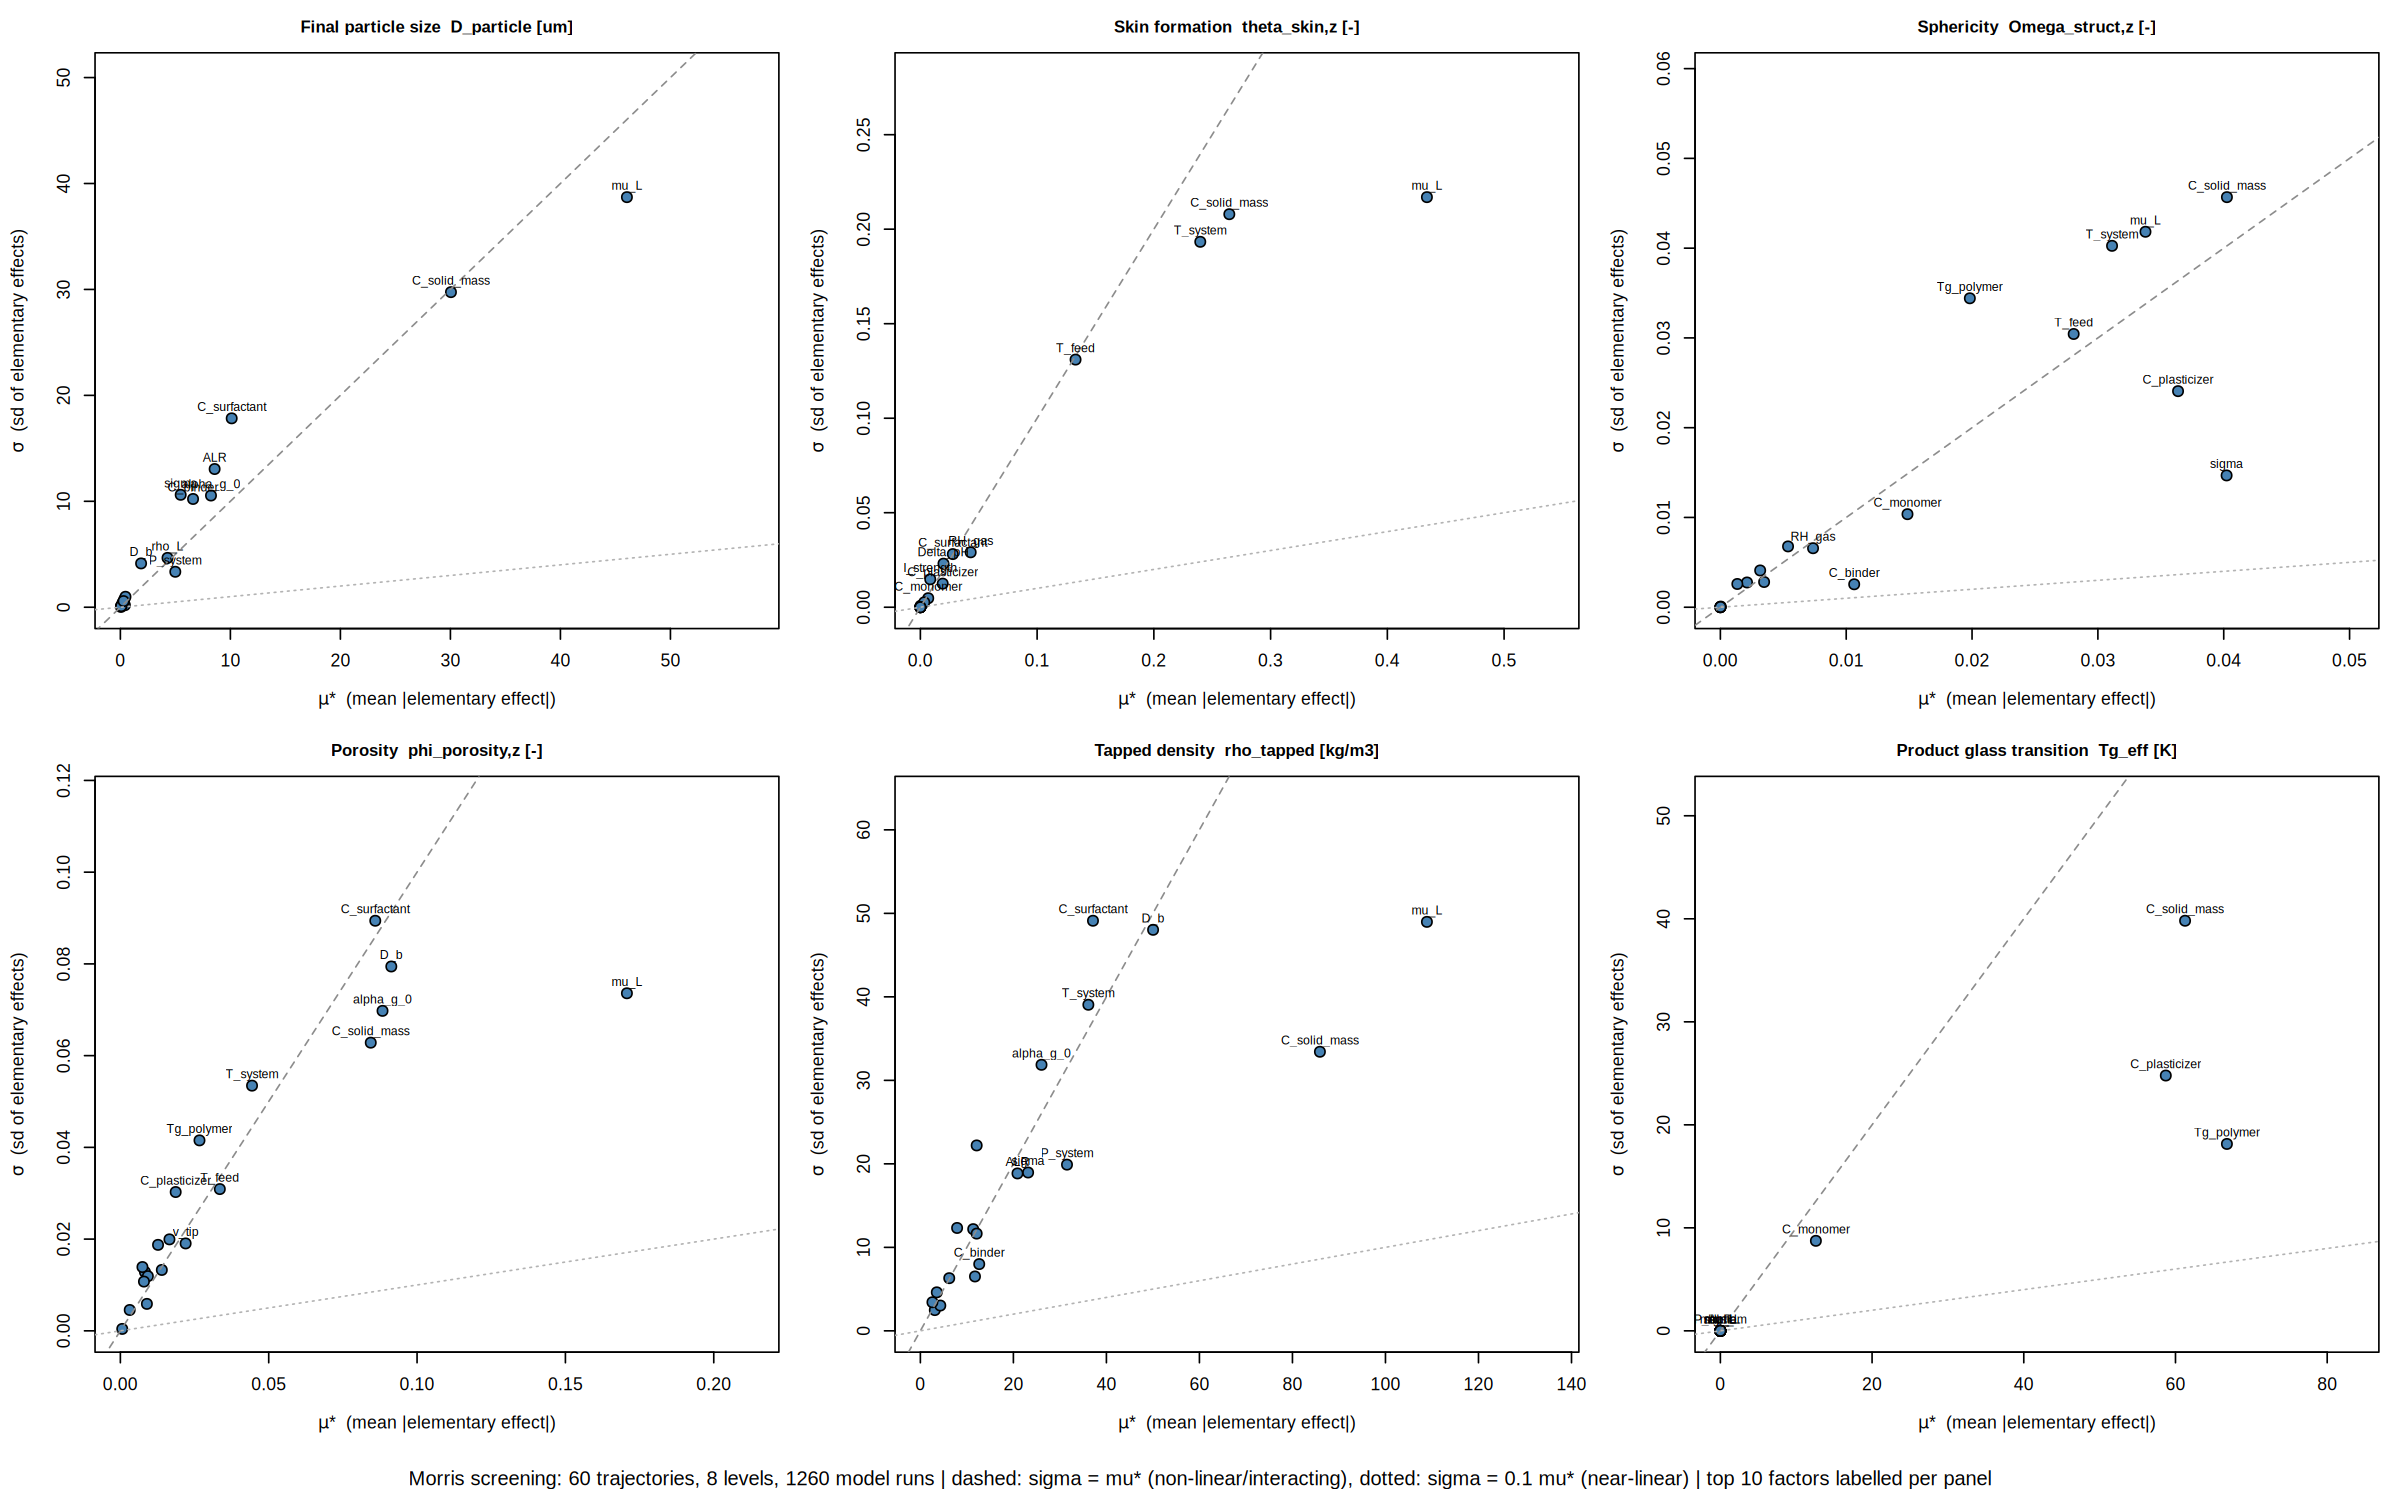
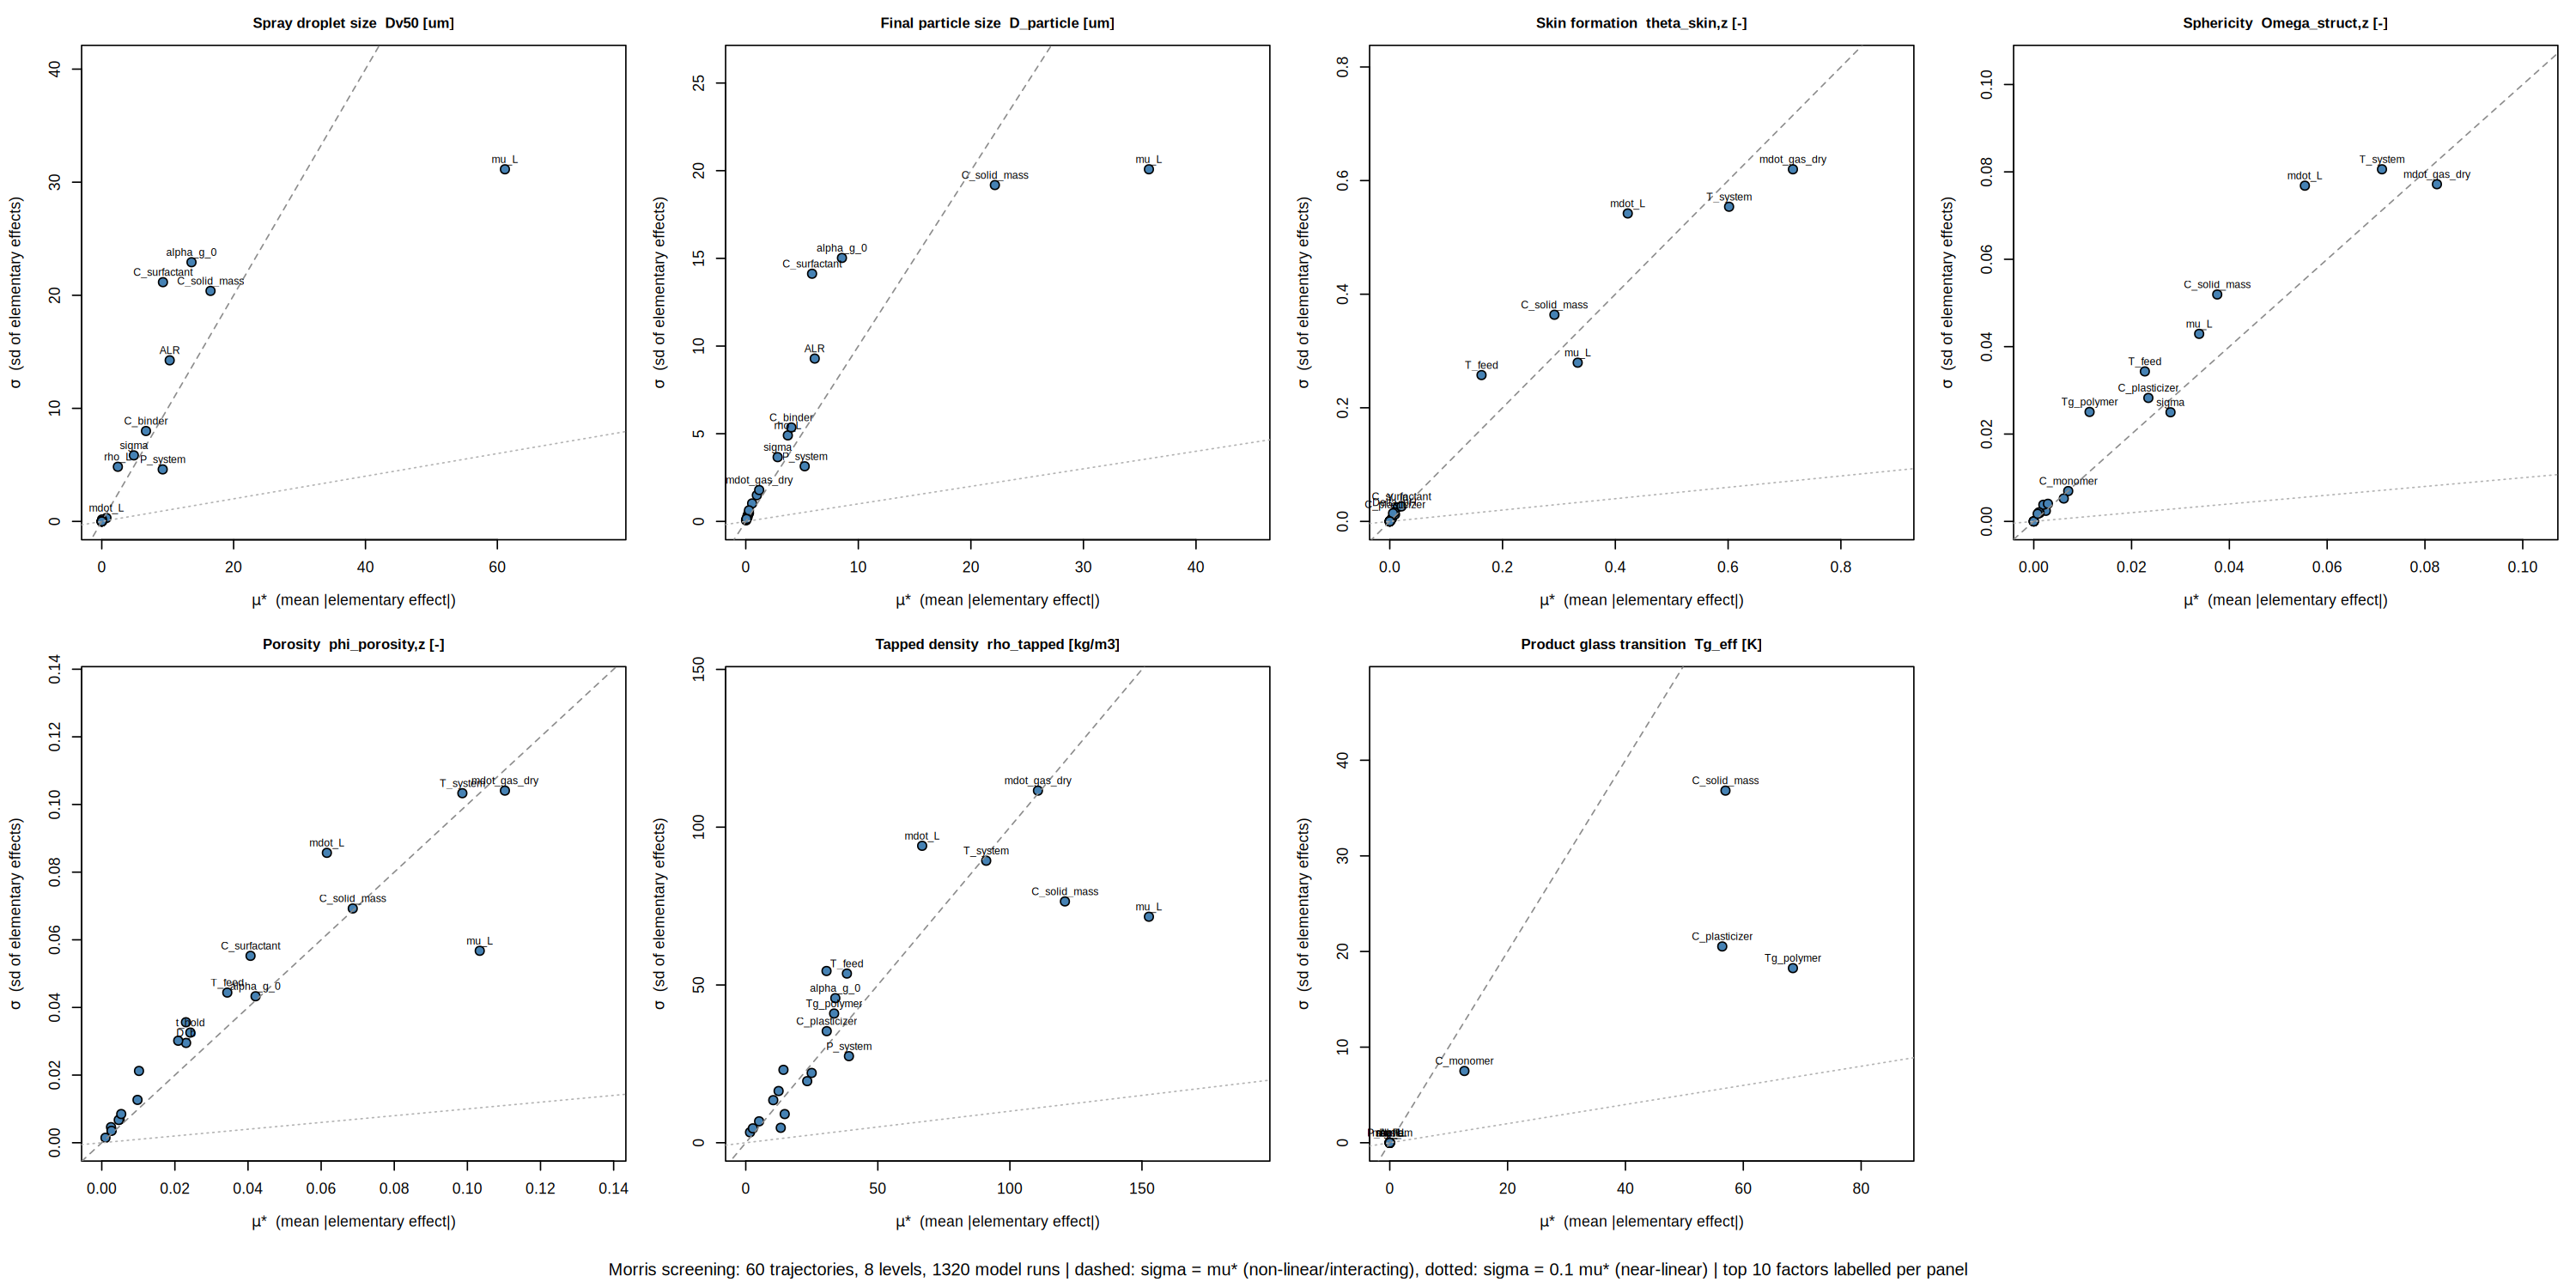
Remodel spray: two-stage atomization, dryer energy balance, bubble ripening
Removes the v_tip impeller closure (upstream unit operation; its
history is carried by feed bubble size and hold-time coarsening).
Adds pressurized-hold Ostwald ripening/coalescence (t_hold, LSW
kinetics, pressure-accelerated and surfactant-retarded), a two-stage
atomization model (Lund-type effervescent stage with annular film,
Rayleigh ligament breakup and flash-expansion shattering, soft-min
combined with the Rizk-Lefebvre bi-fluid airblast stage), and a
co-current dryer energy/moisture balance (mdot_gas_dry, Y_in ->
outlet T and RH driving Peclet and sticky-point state). Exposes spray
droplet Dv50 as a seventh output and regenerates plots and indices.

Claude-Session: https://claude.ai/code/session_01Rd7XXTd1wHnkANXjH2UHk6

diff --git a/README.md b/README.md
@@ -12,14 +12,23 @@ Flory–Huggins free-volume swelling by residual solvent (`C_monomer`,
 `C_plasticizer`, `C_binder`), a Fox-equation product glass transition with
 stickiness / pore-collapse / caking above `Tg_eff`, surfactant molar
 stoichiometry (`theta_surf` from `C_surfactant`, `MW_surfactant`,
-`A_molecule`), DLVO electrostatics (`Delta_pH`, `I_strength`),
-Krieger–Dougherty crowding from feed solids (`phi_s`), and impeller
-dissipation (`v_tip`) conditioning bubble size and gas entrainment. It
-screens 20 input factors with the Morris elementary-effects method for six
-outputs:
+`A_molecule`), DLVO electrostatics (`Delta_pH`, `I_strength`), and
+Krieger–Dougherty crowding from feed solids (`phi_s`).
+
+Spray-line extensions beyond the reactor spec: pressurized-hold bubble
+coarsening (Ostwald ripening + coalescence over `t_hold`, pressure-
+accelerated, surfactant-retarded), two-stage atomization (a Lund-type
+effervescent stage — annular film, Rayleigh ligament breakup, flash-expansion
+shattering — feeding a traditional Rizk–Lefebvre bi-fluid airblast stage),
+and a co-current dryer energy/moisture balance (`mdot_gas_dry`, `Y_in` →
+outlet temperature and humidity driving the drying Péclet number and the
+sticky-point state). The v47 impeller closure (`v_tip`) was removed as
+belonging to an upstream unit operation. It screens 21 input factors with
+the Morris elementary-effects method for seven outputs:
 
 | Output | Nomenclature symbol |
 |---|---|
+| Spray droplet size | `Dv50` |
 | Final particle size | `D_particle` |
 | Particle skin formation | `theta_skin,z` |
 | Particle sphericity | `Omega_struct,z` |